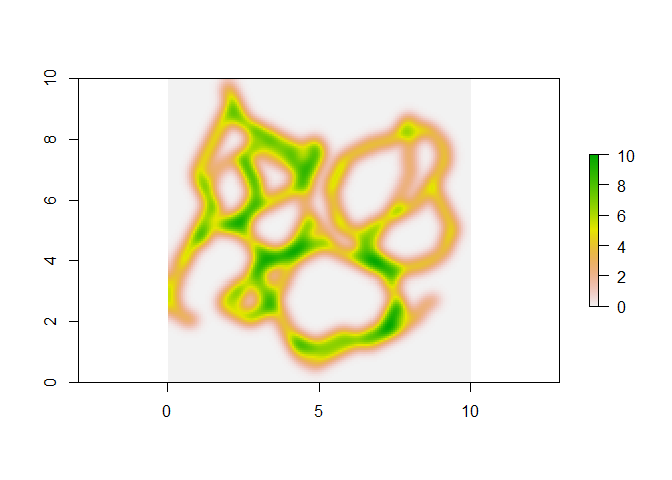
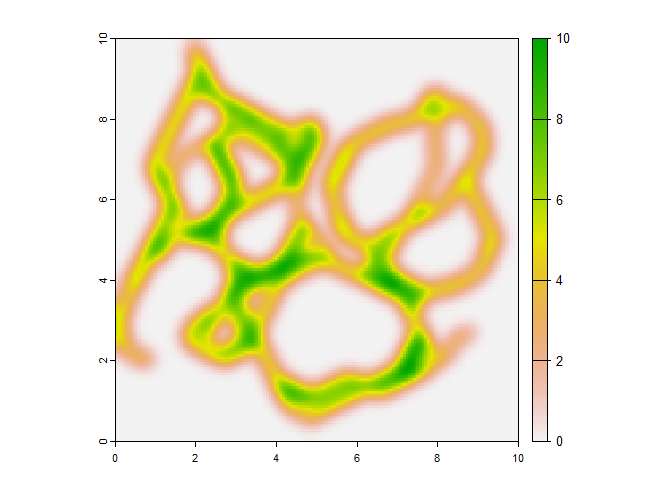
update README example to use terra

diff --git a/README.md b/README.md
@@ -4,7 +4,6 @@
 # **habicon**
 
 <!-- badges: start -->
-
 <!-- badges: end -->
 
 The goal of `habicon` is to calculate habitat patch and corridor
@@ -15,7 +14,9 @@ data (e.g., outputs from connectivity models such as Circuitscape)
 
 You can install the development version of `habicon` on GitHub with:
 
-    devtools::install_github("ccmothes/habicon")
+``` r
+devtools::install_github("ccmothes/habicon")
+```
 
 ## Example
 
@@ -23,20 +24,22 @@ This is a basic example using simulated habitat suitability and
 connectivity maps demonstrating the functions available so far.
 
 **NOTE: This package is still in the early stages of development and
-more functions with increased user flexibility are coming soon\!**
+more functions with increased user flexibility are coming soon!**
 
 ``` r
 library(habicon)
 ```
 
 First let’s visualize the simulated raster maps included as example
-data.
+data. These are `SpatRaster` objects that first need to be unpacked
+using the `unwrap()` helper function from `terra`.
 
 These include **suit** where values represent habitat suitability and
 range from 0-1 (1 being high suitability):
 
 ``` r
-plot(suit)
+suit <- terra::unwrap(suit)
+terra::plot(suit)
 ```
 
 <img src="man/figures/README-suit-1.png" width="100%" />
@@ -45,7 +48,8 @@ And second **corr** where values represent “current” (e.g. Circuitscape
 outputs) or similar, where larger values reflect more movement:
 
 ``` r
-plot(corr)
+corr <- terra::unwrap(corr)
+terra::plot(corr)
 ```
 
 <img src="man/figures/README-corr-1.png" width="100%" />
@@ -61,7 +65,7 @@ Users can test and view binary maps over a range of values:
 
 ``` r
 suit_bin <- bin_map(suit, threshold = c(0.4, 0.6, 0.8))
-plot(suit_bin)
+terra::plot(suit_bin)
 ```
 
 <img src="man/figures/README-binmap-1.png" width="100%" />
@@ -71,22 +75,22 @@ that users can choose to use. Or, say you want to identify patches of
 the highest habitat suitability, say the top 20% of suitability values:
 
 ``` r
-suit_bin <- bin_map(suit, threshold = quantile(values(suit), 0.8))
-plot(suit_bin)
+suit_bin <- bin_map(suit, threshold = quantile(terra::values(suit), 0.8))
+terra::plot(suit_bin)
 ```
 
-<img src="man/figures/README-unnamed-chunk-2-1.png" width="100%" />
+<img src="man/figures/README-unnamed-chunk-4-1.png" width="100%" />
 
 For this example, let’s stick with the top 20% of suitability and
 conductance values to make the binary maps that identify the individual
 habitat patches and corridors.
 
 ``` r
-corr_bin <- bin_map(corr, threshold = quantile(values(corr), 0.8))
-plot(corr_bin)
+corr_bin <- bin_map(corr, threshold = quantile(terra::values(corr), 0.8))
+terra::plot(corr_bin)
 ```
 
-<img src="man/figures/README-unnamed-chunk-3-1.png" width="100%" />
+<img src="man/figures/README-unnamed-chunk-5-1.png" width="100%" />
 
 ## Calculate patch priority with the `patch_priority` function
 
@@ -100,8 +104,8 @@ patch. For this example I kept the default minimum area (removes patches
 that are just one pixel) and set the medium dispersal distance (d) to
 100. Note that this function takes distances in meters. The minimum area
 argument works on vectors of two numbers (since working with pixels), so
-if applying your own minimum area you must enter, for example, min\_area
-= c(10,10) or min\_area = 2\*res(suit), since ‘res’ returns a vector of
+if applying your own minimum area you must enter, for example, min_area
+= c(10,10) or min_area = 2\*res(suit), since ‘res’ returns a vector of
 two numbers.
 
 ``` r
@@ -110,7 +114,23 @@ patch <- patch_priority(suit = suit, suit_bin = suit_bin, corr_bin = corr_bin,
                         resist = resist, d = 100)
 ```
 
-<img src="man/figures/README-unnamed-chunk-5-1.png" width="100%" /><img src="man/figures/README-unnamed-chunk-5-2.png" width="100%" /><img src="man/figures/README-unnamed-chunk-5-3.png" width="100%" />
+<img src="man/figures/README-unnamed-chunk-7-1.png" width="100%" />
+
+``` r
+terra::plot(patch$btwn, col = gradient_n_pal(brewer_pal("seq", palette = "Greens")(9))(seq(0, 1, length=100)), 
+     legend = FALSE, axes = FALSE,
+     main = "Weighted \nBetweenness Centrality")
+```
+
+<img src="man/figures/README-unnamed-chunk-8-1.png" width="100%" />
+
+``` r
+terra::plot(patch$qwa, col = gradient_n_pal(brewer_pal("seq", palette = "Greens")(9))(seq(0, 1, length=100)), 
+     legend = FALSE, axes = FALSE,
+     main = "dEC (Importance to \nEquivalent Connectivity")
+```
+
+<img src="man/figures/README-unnamed-chunk-9-1.png" width="100%" />
 
 ## Calculate corridor priority with the `corr_priority` function
 
@@ -131,4 +151,4 @@ cells and this function finished in a couple minutes.
 corr_prior <- corr_priority(suit = suit, suit_bin = suit_bin, corr = corr_rescale, corr_bin = corr_matrix)
 ```
 
-<img src="man/figures/README-unnamed-chunk-7-1.png" width="100%" />
+<img src="man/figures/README-unnamed-chunk-11-1.png" width="100%" />
